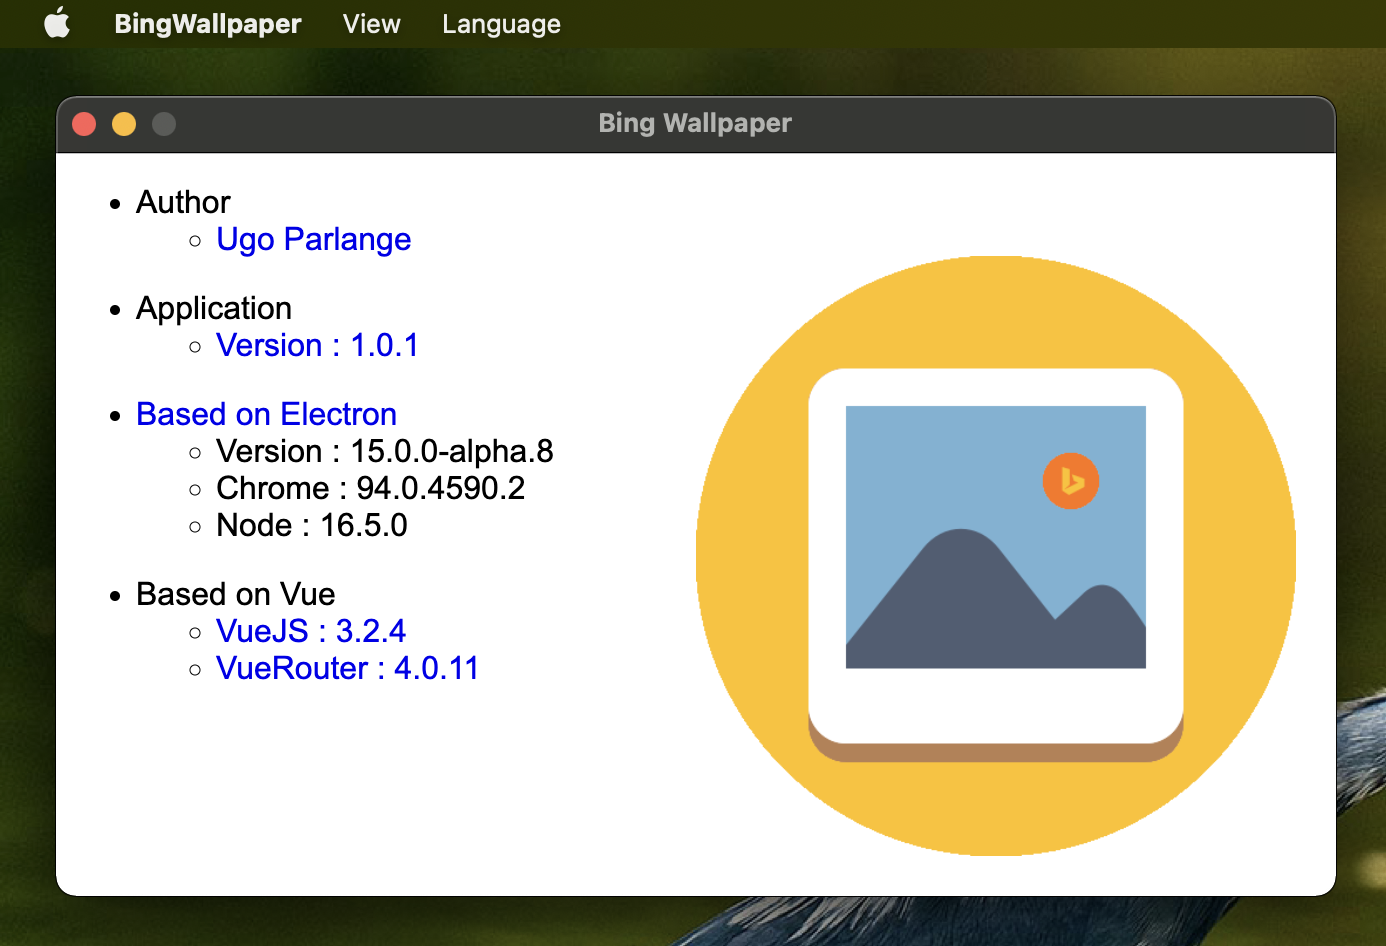
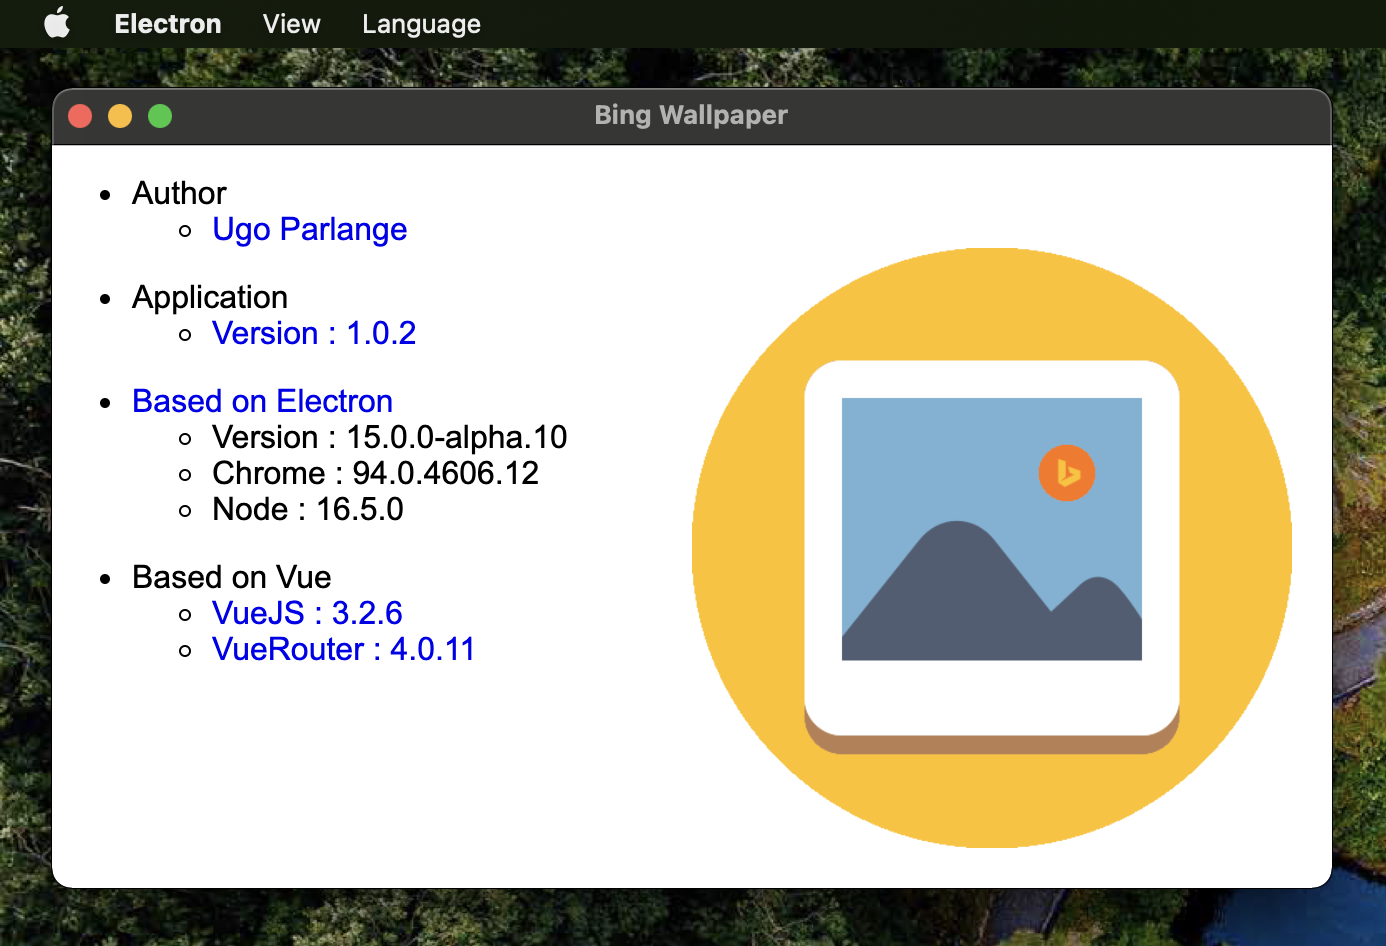
Release 1.0.2

diff --git a/README.md b/README.md
@@ -8,8 +8,9 @@
 
 # Downloads
 
-* [MacOS : v1.0.1](https://github.com/uparlange/bing-wallpaper/releases/download/v1.0.1/BingWallpaper-1.0.1-arm64.dmg)
-* Win : In progress ...
+* [MacOS (Intel) : BingWallpaper-1.0.2.dmg](https://github.com/uparlange/bing-wallpaper/releases/download/v1.0.2/BingWallpaper-1.0.2.dmg)
+* [MacOS (M1) : BingWallpaper-1.0.2-arm64.dmg](https://github.com/uparlange/bing-wallpaper/releases/download/v1.0.2/BingWallpaper-1.0.2-arm64.dmg)
+* [Windows : BingWallpaper-1.0.2-nsis64.exe](https://github.com/uparlange/bing-wallpaper/releases/download/v1.0.2/BingWallpaper-1.0.2-nsis64.exe)
 * Linux : Todo, maybe ....
 
 # Screenshots
